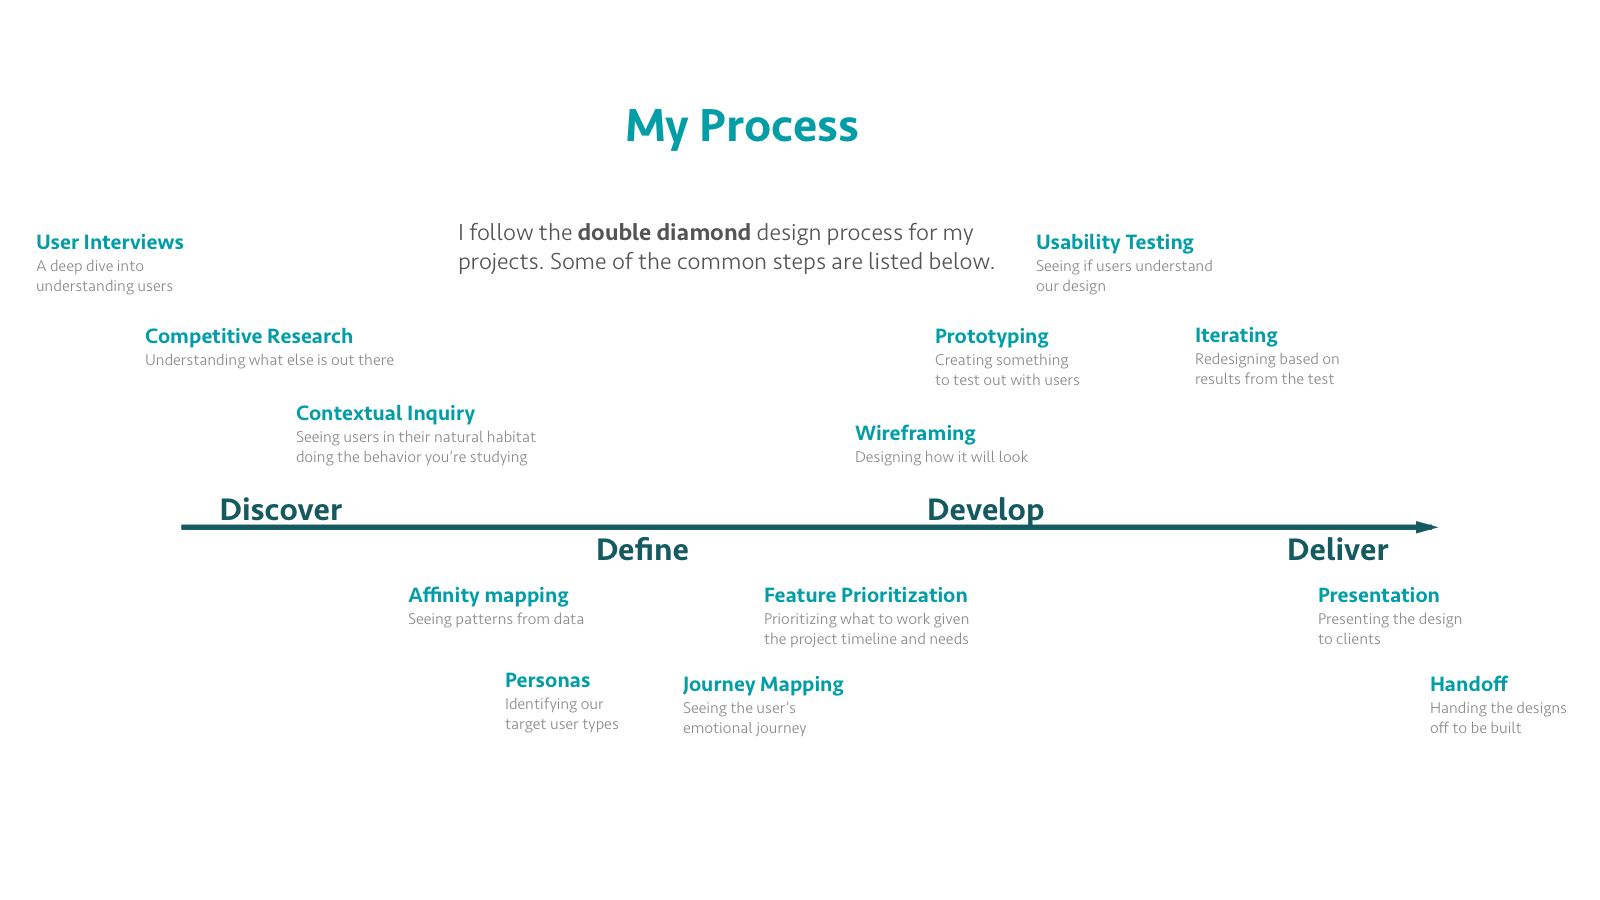
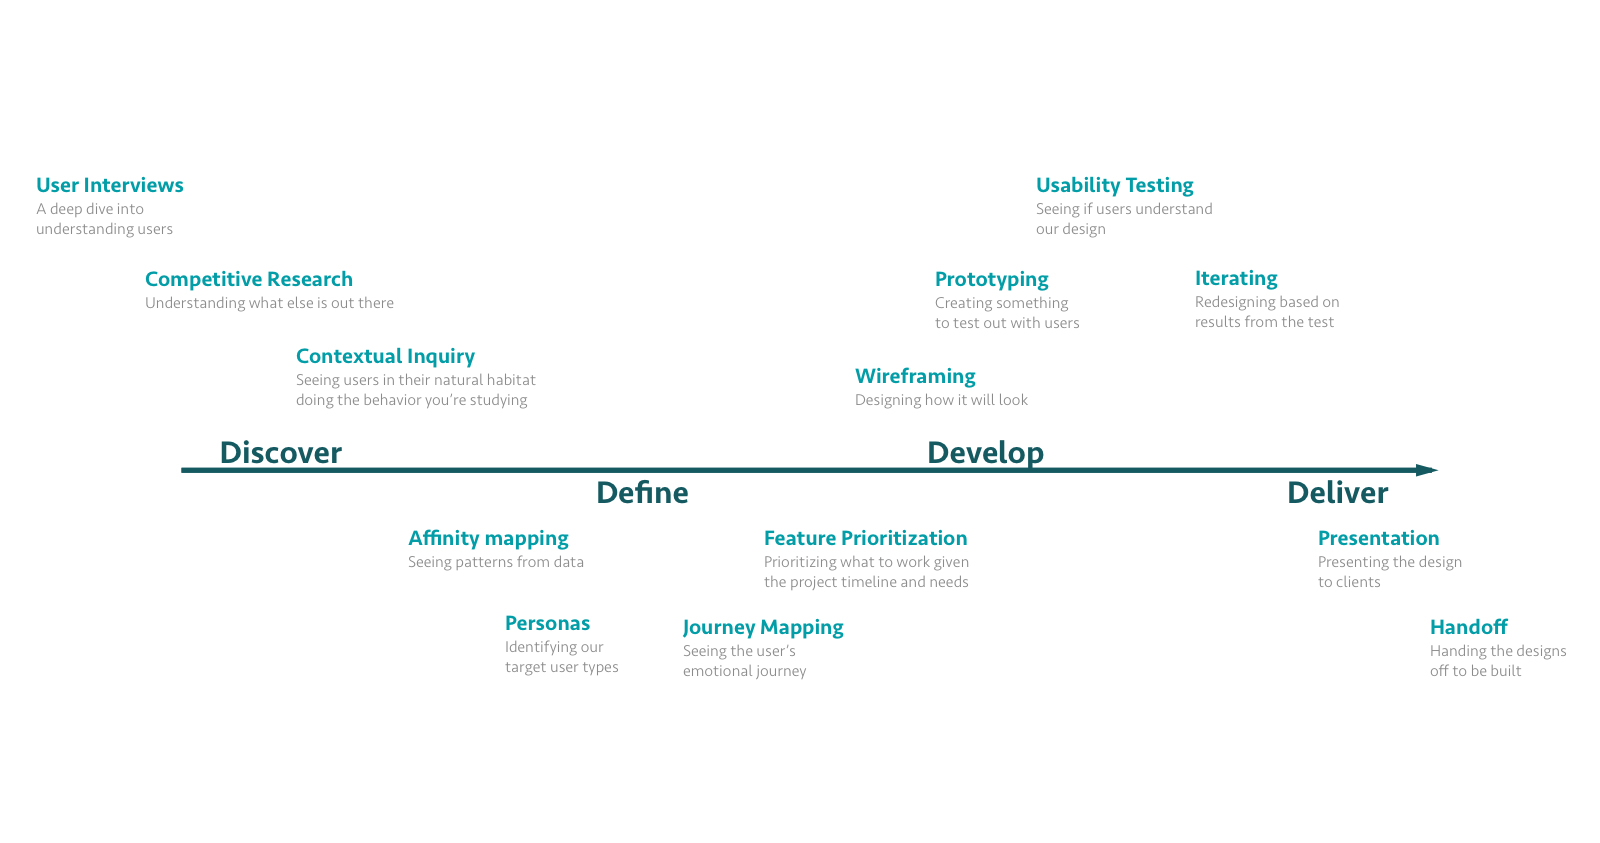
centered text; added bg colour

diff --git a/app/assets/stylesheets/style.css b/app/assets/stylesheets/style.css
@@ -1,4 +1,12 @@
-/*backgrounds*/
+/*h1,h2,h3,h4,h5,h6 {
+	
+}
+*/
+
+h1,h2,h3,h4,h5,h6, p {
+	text-align:center;
+}
+
 .bg-image {
 	width: 100%;
 	background-size:100%;
@@ -15,21 +23,30 @@
 	height: 60vw;
 	text-align: center;
 }
-
+#bg-my-process {
+	background-image: url('/images/fornow/my-process.png');
+	height:50vw;
+}
 
 
 /*section blocks */
 .section-block {
+	padding: 3vw 0 3vw 0;
 	width: 100%;
+	background-color: lightblue;
 
 }
 .section-block img{
 	max-width: 100%;
 }
 
+/*landing page*/
+
 	/*work samples */
+/*	.work-sample * {
+		float:left;
+	}*/
 	.work-sample img {
 		width: 10vw;
-		float:left;
 	}
 
